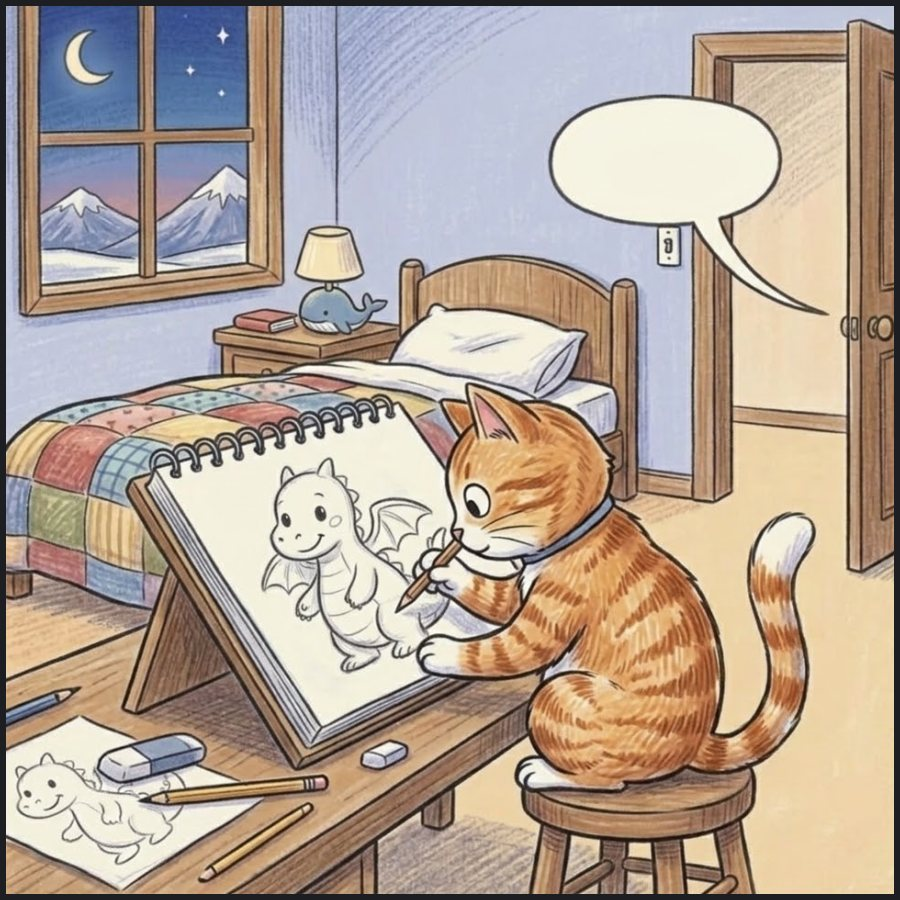
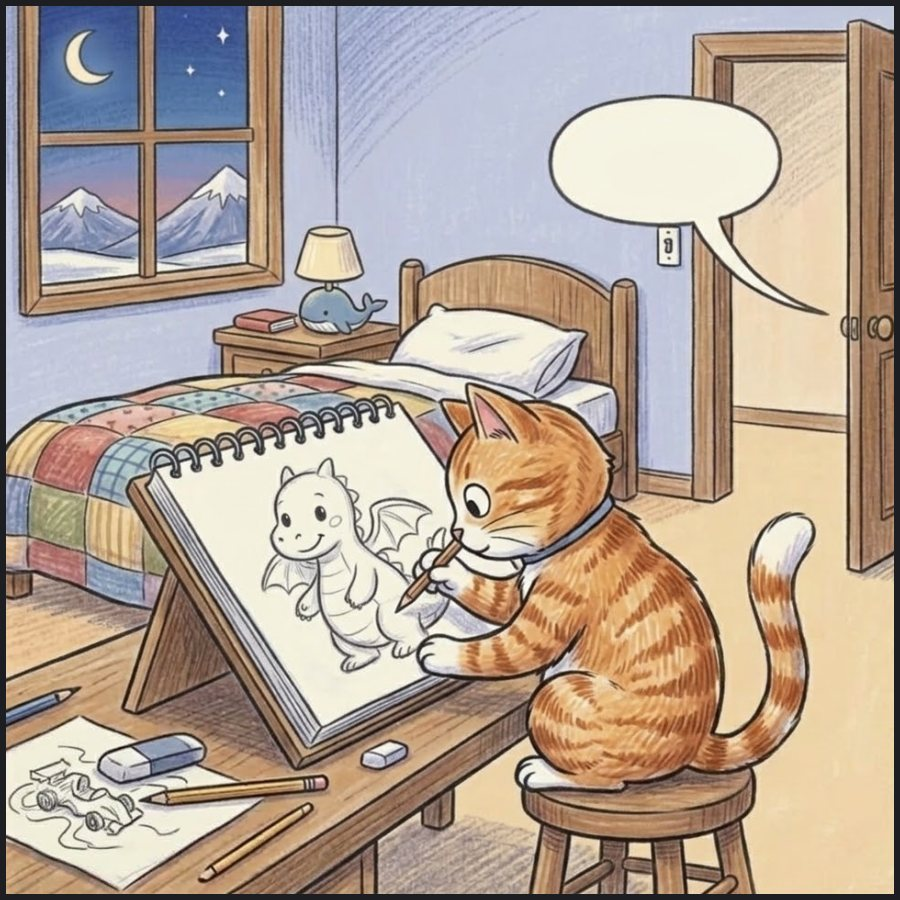
Ep6 frame 1: race car sketch on the table
Claude-Session: https://claude.ai/code/session_01NreAqm5NtqDWekSoZfY2fL

Changed region(s): [[0.0, 0.8089, 0.2178, 0.9644]]

diff --git a/ep6/index.html b/ep6/index.html
@@ -190,7 +190,7 @@ body.show-en .story{gap:2px}
   <section class="panel">
     <div class="story"><p data-line="晚上|，|小懒猫|在|房间|里|画画|。" data-en="In the evening, Little Lazy Cat was drawing in his room."></p><p data-line="小林|叫|他|吃饭|，" data-en="Xiao Lin called him for dinner,"></p><p data-line="可|他|太|入迷|了|，" data-en="but he was too absorbed,"></p><p data-line="已经|沉浸|在|自己的|幻想世界|里|，" data-en="already lost in his own world of imagination,"></p><p data-line="一点儿|也|没|听见|。" data-en="and didn't hear a thing."></p></div>
     <figure>
-      <img src="sq1.jpg?v=1" alt="The cat sits on a stool drawing a little dragon on a big sketchpad, while a voice calls from the bedroom door" width="900" height="900">
+      <img src="sq1.jpg?v=2" alt="The cat sits on a stool drawing a little dragon on a big sketchpad, while a voice calls from the bedroom door" width="900" height="900">
       <button class="bub" data-who="penguin" data-line="小懒猫|，|吃饭|了|！" data-en="Little Lazy Cat, dinner's ready!" data-show="小懒猫，/吃饭了！" style="left:63.3%;top:11.9%;width:21.3%;height:11.8%;font-size:4.4cqw;line-height:1.25"></button>
     </figure>
   </section>
